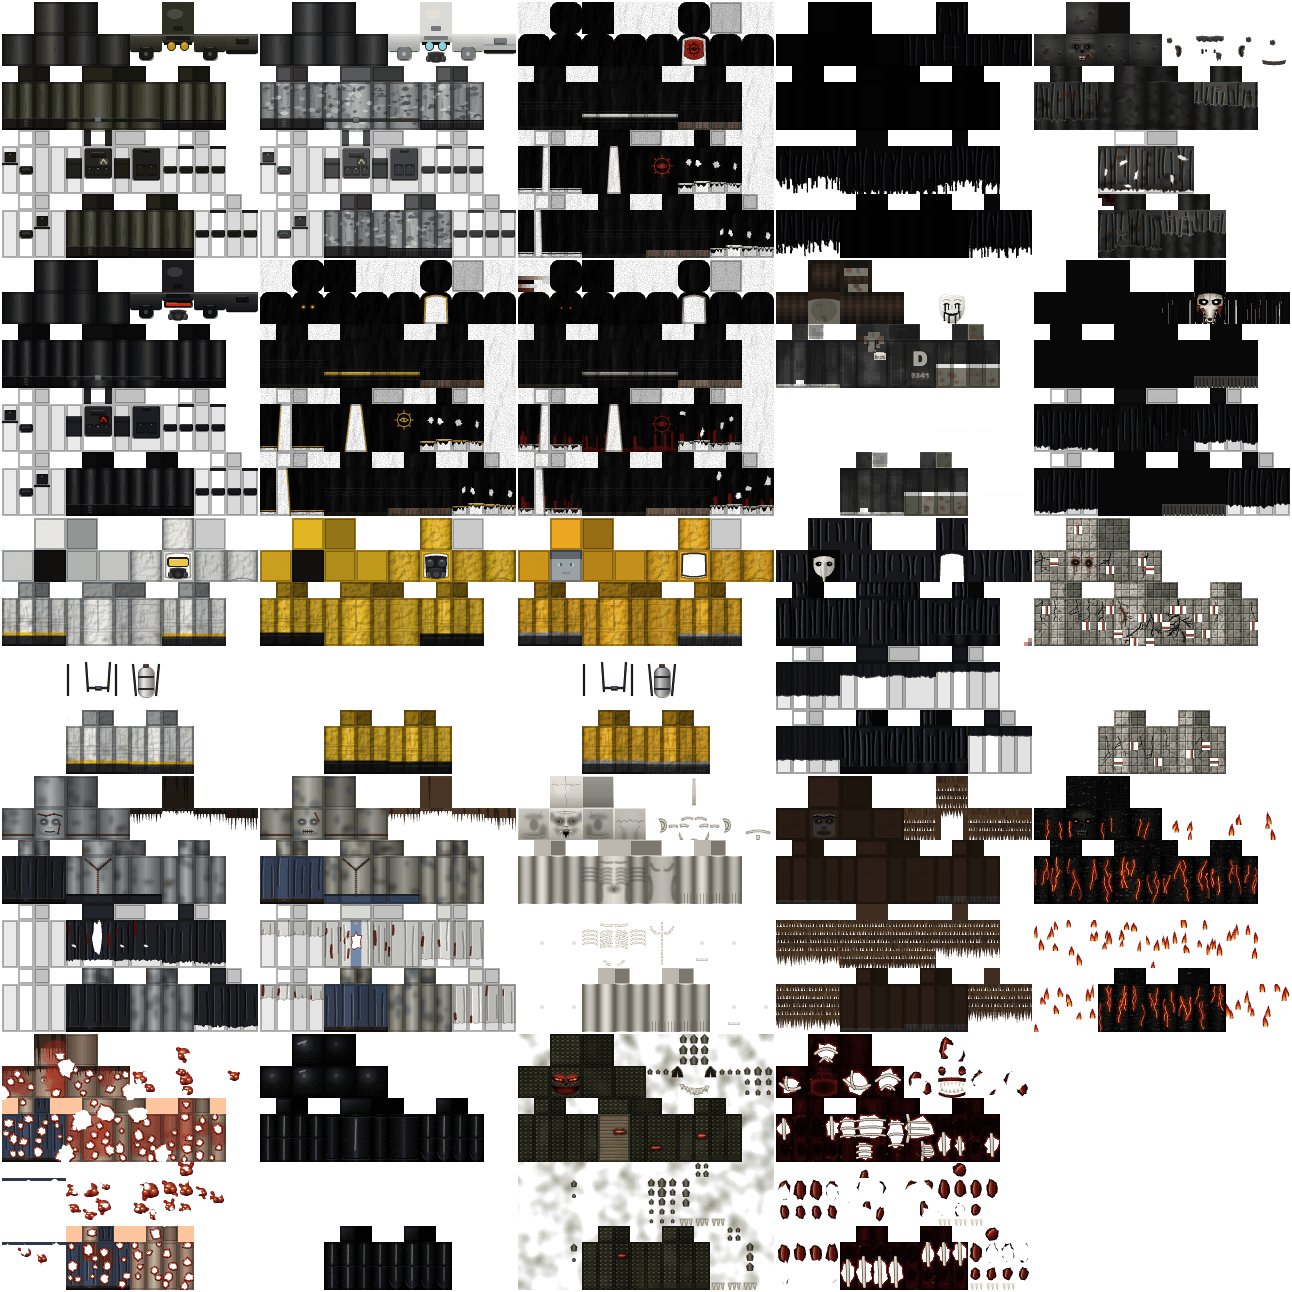
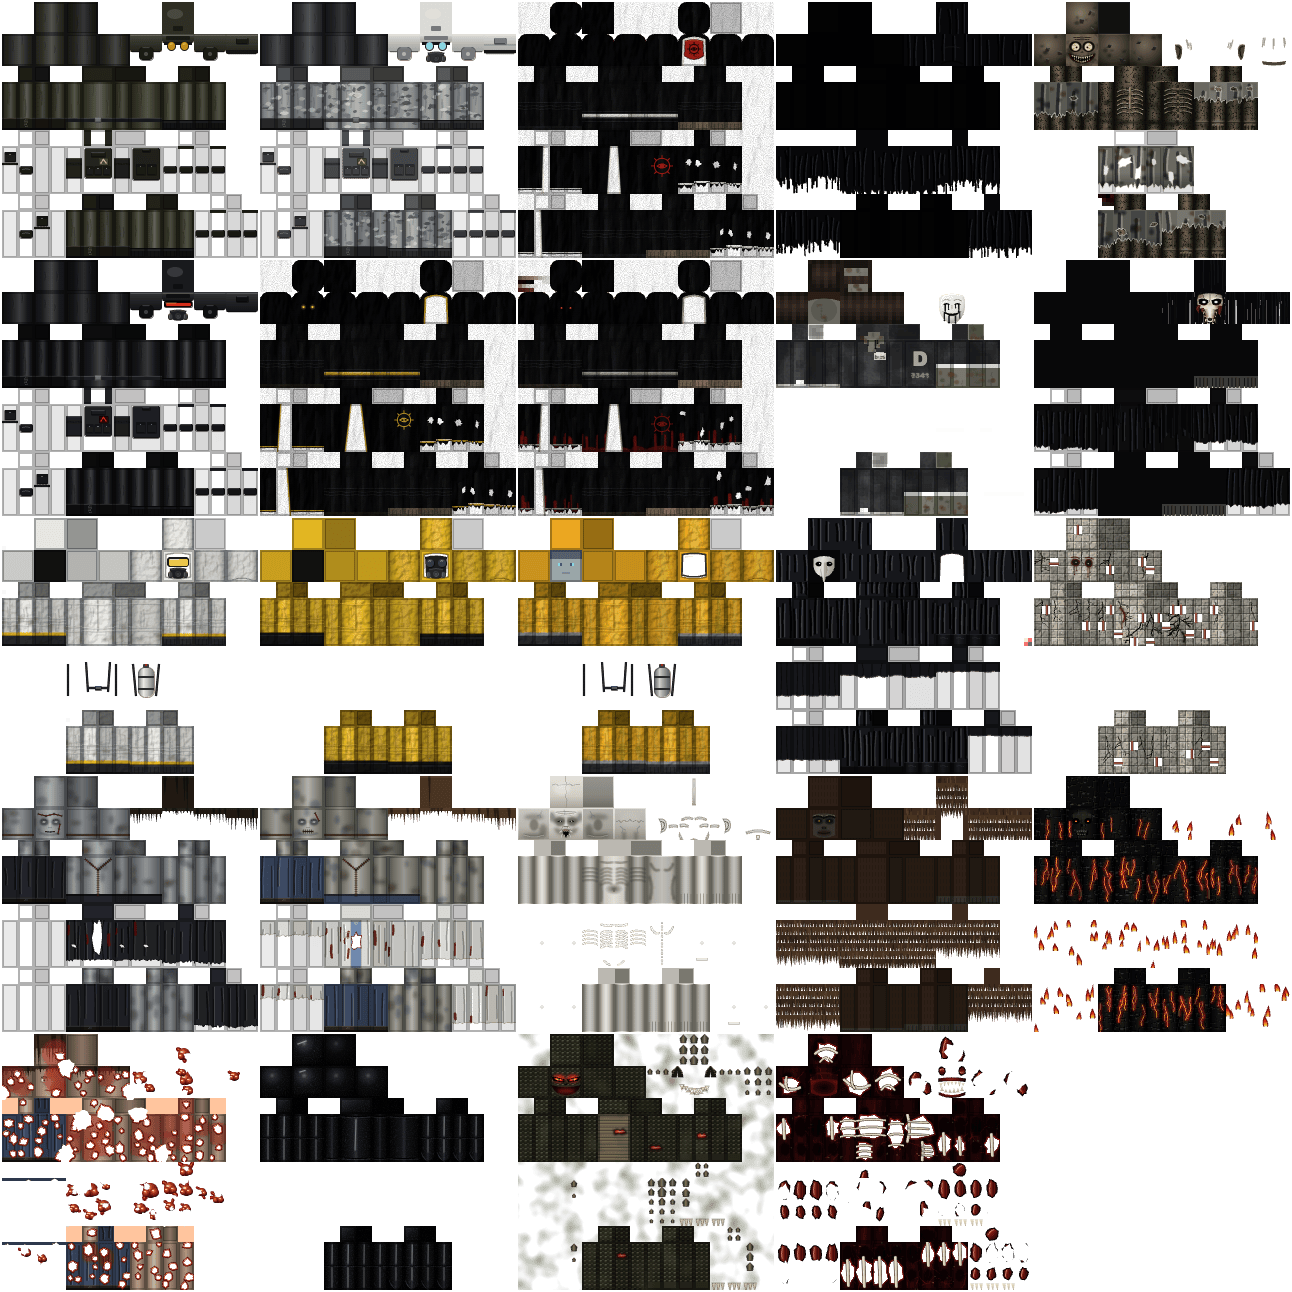
feat: tweak scp-106

Changed region(s): [[0.774, 0.0, 0.9907, 0.2167]]

diff --git a/docs/skins.md b/docs/skins.md
@@ -150,6 +150,7 @@ In skin pixels, as `[x, y]` of a face's top-left corner. Multiply by 4 in the sv
   the embedded image rather than painting over it.
 - To clear texels with ImageMagick, copy a transparent patch over them: `( -size WxH xc:none ) -geometry +X+Y -compose Copy -composite`. `-region … -alpha transparent` leaves them.
 - Widening slim arms, clear each arm's 16px square first. Else the old layout's overlay texels show through the new one's gaps.
+- A face is drawn cartoony, else it is lost at the size an npc is seen. Bold shapes with dark outlines, a few features exaggerated: big eyes with small pupils, a wide mouth, teeth as separate shapes with gaps (`scp-106`). Fine creases, soft shading and realistic proportions blur into mush.
 - A screen for a face (`robot-2`, `robot-4`) is drawn near-black, its eyes in a bright core over a blurred glow. A dark grey screen reads faded in the World.
 - Fine detail on a face, e.g. glasses (`medic-1`), goes on the head overlay as opaque strokes, its pixel original cleared. The eye slices never touch the overlay.
 - Hair at the back of the head is drawn on the head overlay as tufts, never as one even plane, which reads as a raised panel (`d-4`).
